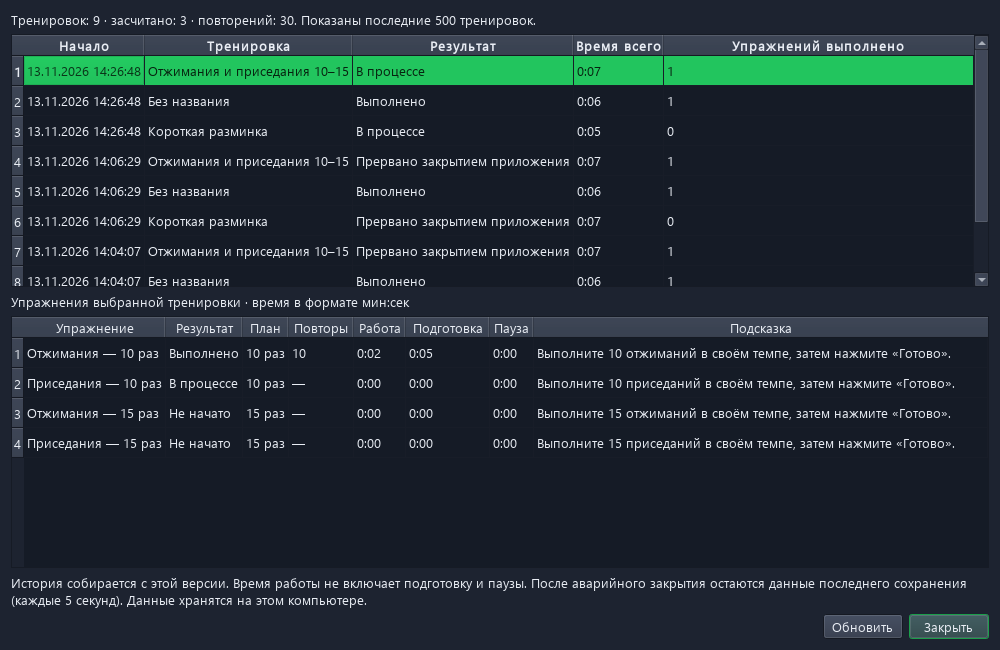
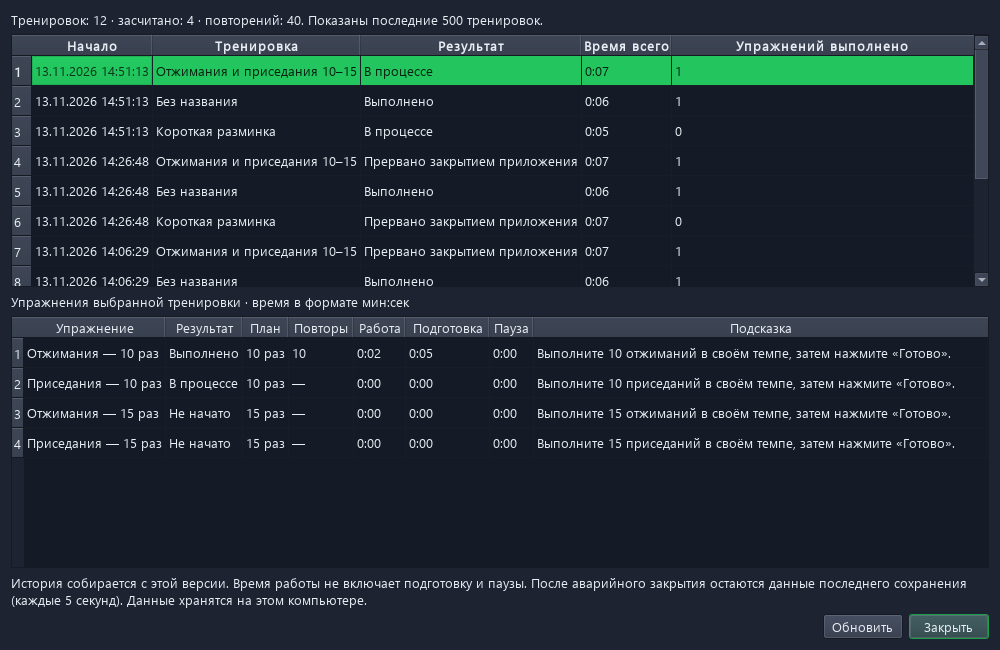
Website for Razminka 1.2.10

diff --git a/docs/index.html b/docs/index.html
@@ -4,7 +4,7 @@
 <meta charset="utf-8"><meta name="viewport" content="width=device-width,initial-scale=1">
 <meta name="description" content="Разминка напоминает отойти от компьютера. Выбирайте упражнения, создавайте свои тренировки и смотрите результаты. Бесплатно для Windows.">
 <meta name="theme-color" content="#171d27"><title>Разминка — сделайте небольшой перерыв</title>
-<link rel="icon" href="assets/icon.png"><link rel="stylesheet" href="style.css?v=1.2.9"><script src="app.js" defer></script>
+<link rel="icon" href="assets/icon.png"><link rel="stylesheet" href="style.css?v=1.2.10"><script src="app.js" defer></script>
 </head>
 <body>
 <a class="skip" href="#main">Перейти к содержимому</a>
@@ -18,7 +18,8 @@
 <section id="workouts" class="workouts"><div class="wrap split"><div class="section-copy"><h2>Ваши упражнения.<br>Ваш темп.</h2><p>Выберите короткую разминку или отжимания с приседаниями: по 10 раз, затем по 15. Программа запомнит выбранную тренировку.</p><p>Упражнения на время идут по таймеру. В подходах на повторения вы сами нажимаете «Готово». Сделали меньше или больше — поправьте количество перед завершением.</p><div class="sequence" aria-label="Порядок упражнений"><span>10 отжиманий</span><span>10 приседаний</span><span>15 отжиманий</span><span>15 приседаний</span></div></div><figure><button class="screenshot" aria-label="Увеличить экран упражнения на повторения"><img src="assets/repetitions.png" width="580" height="600" loading="lazy" alt="Отжимания: план 10 повторений, поле выполненного количества и кнопка Готово"></button><figcaption>Можно сделать паузу или пропустить упражнение.</figcaption></figure></div></section>
 <section class="editor wrap"><div class="section-heading"><h2>Соберите свою тренировку.</h2><p>Откройте настройки и нажмите «Новая тренировка». Добавьте упражнения, укажите время или повторения, расставьте их в удобном порядке. Название тренировки, подсказки и отдых между упражнениями тоже можно изменить.</p></div><figure class="wide-shot"><button class="screenshot" aria-label="Увеличить редактор тренировок"><img src="assets/editor.png" width="820" height="500" loading="lazy" alt="Редактор: названия упражнений, подсказки, выбор времени или повторений, кнопки добавления и перестановки"></button><figcaption>Всё редактируется в приложении. Разбираться в файлах не нужно.</figcaption></figure></section>
 <section id="history" class="history"><div class="wrap"><div class="section-heading"><h2>Посмотрите,<br>что получилось.</h2><p>В истории остаются тренировки и упражнения: что выполнили, что пропустили, сколько повторений подтвердили и сколько времени занимались. Подготовка и паузы учитываются отдельно.</p></div><figure class="wide-shot"><button class="screenshot" aria-label="Увеличить историю тренировок"><img src="assets/history.png" width="1000" height="650" loading="lazy" alt="История с датами тренировок и подробностями каждого упражнения"></button><figcaption>Пример истории. Ваши записи хранятся только на вашем компьютере.</figcaption></figure><p class="history-note">История собирается с версии 1.2.8. Программа не измеряет движения: количество повторений вы подтверждаете сами.</p></div></section>
-<section class="settings wrap"><figure><button class="screenshot" aria-label="Увеличить настройки"><img src="assets/settings.png" width="600" height="650" loading="lazy" alt="Настройки: выбор и редактор тренировок, история, расписание и обновления"></button></figure><div class="section-copy"><h2>Настройте один раз.</h2><ul class="plain-list"><li><strong>Светлая или тёмная тема.</strong> Выберите оформление по вкусу или оставьте «Как в Windows». На скриншотах — тёмная тема приложения.</li><li><strong>Удобное расписание.</strong> Выберите интервал и часы напоминаний.</li><li><strong>Без лишнего звука.</strong> Отключите сигналы, если они мешают.</li><li><strong>Автозапуск по желанию.</strong> Разминка может запускаться вместе с Windows.</li><li><strong>Обновления внутри приложения.</strong> Новая версия загрузится автоматически, а установить её можно в удобный момент.</li></ul></div></section>
+<section class="settings wrap"><figure><button class="screenshot" aria-label="Увеличить настройки"><img src="assets/settings.png" width="600" height="650" loading="lazy" alt="Настройки: выбор и редактор тренировок, история, расписание и обновления"></button></figure><div class="section-copy"><h2>Настройте один раз.</h2><ul class="plain-list"><li><strong>Светлая или тёмная тема.</strong> Выберите оформление по вкусу или оставьте «Как в Windows». На скриншотах — тёмная тема приложения.</li><li><strong>Удобное расписание.</strong> Выберите интервал и часы напоминаний.</li><li><strong>Звуки на ваш вкус.</strong> Выберите из 29 сигналов, настройте громкость и прослушайте их прямо в приложении. Любое событие можно сделать беззвучным.</li><li><strong>Автозапуск по желанию.</strong> Разминка может запускаться вместе с Windows.</li><li><strong>Обновления внутри приложения.</strong> Новая версия загрузится автоматически, а установить её можно в удобный момент.</li></ul></div></section>
+<section class="editor wrap"><div class="section-heading"><h2>Как будет звучать<br>ваш перерыв?</h2><p>Колокольчик, пузырьки, мультяшный свист или аркадная монетка — выбирайте настроение. Для напоминания, начала упражнения и завершения можно назначить разные звуки. У отсчёта свои короткие сигналы.</p></div><figure class="wide-shot"><button class="screenshot" aria-label="Увеличить настройки звуков"><img src="assets/sounds.png" width="620" height="450" loading="lazy" alt="Выбор звуков для четырёх событий, громкость приложения и кнопки прослушивания"></button><figcaption>Громкость регулируется внутри Разминки. Настройки звука Windows при этом не меняются.</figcaption></figure></section>
 <section id="download" class="download"><div class="wrap"><h2>Попробуйте в следующий<br>рабочий день.</h2><p>Windows 10 или 11, 64 бита. Дополнительно устанавливать библиотеки не нужно.</p><div class="downloads"><article><h3>Обычная установка</h3><p>Запустите установщик. Разминка появится в меню «Пуск». Права администратора не нужны.</p><a id="setup-link" class="button primary" href="https://github.com/neonvalve/razminka/releases/latest">Скачать установщик</a></article><article><h3>Без установки</h3><p>Распакуйте всю папку из архива и откройте Razminka.exe. Настройки и история останутся рядом с программой.</p><a id="portable-link" class="button" href="https://github.com/neonvalve/razminka/releases/latest">Скачать ZIP</a></article></div><p class="release-info"><span id="version">Последняя версия доступна на GitHub.</span> <a href="https://github.com/neonvalve/razminka/releases">Что изменилось в выпусках</a></p></div></section>
 <section class="faq wrap"><h2>Если остались вопросы</h2><details><summary>Где искать программу после запуска?</summary><p>Рядом с часами Windows. Если значка не видно, откройте скрытые значки стрелкой. Нажмите на значок Разминки — появится меню с запуском тренировки, настройками и историей.</p></details><details><summary>Как выбрать тренировку для всех следующих напоминаний?</summary><p>В меню трея откройте «Тренировка» и выберите нужную — изменение применяется сразу. Или выберите её в настройках и нажмите «Сохранить». Уже начатая тренировка останется прежней.</p></details><details><summary>Что будет с моими тренировками после обновления?</summary><p>Обновление сохраняет ваши упражнения, настройки и историю. Новая версия устанавливается после подтверждения и перезапускает приложение. Проверить обновления вручную можно в трее или в окне «О программе».</p></details><details><summary>Нужен ли интернет?</summary><p>Для тренировок и просмотра истории — нет. Интернет нужен для проверки и загрузки обновлений. Данные тренировок никуда не отправляются.</p></details><details><summary>Можно пользоваться бесплатно?</summary><p>Да, все функции доступны бесплатно. Подписки и регистрации нет. Поддержать автора можно по желанию.</p></details></section>
 <section class="coffee wrap"><div><h2>Разминка пригодилась?</h2><p>Меня зовут Антон Тепляков. Если хотите сказать спасибо и поддержать дальнейшую разработку — можно угостить меня кофе.</p><a href="https://t.me/ElementJS">Написать автору в Telegram</a></div><a class="button" href="https://pay.cloudtips.ru/p/019480d0" target="_blank" rel="noopener noreferrer">Угостить кофе</a></section>

diff --git a/README.md b/README.md
@@ -19,6 +19,10 @@
 
 Нужна Windows 10 или 11, 64 бита. Выберите Setup-x64.exe для обычной установки либо Portable-x64.zip для запуска без установки. Переносимую версию нужно полностью распаковать и открыть Razminka.exe. Необходимые библиотеки уже включены.
 
+## Звуковые сигналы
+
+В настройках доступны 29 звуков: спокойные, музыкальные, игровые и весёлые. Для каждого события можно выбрать сигнал или тишину. Громкость приложения регулируется отдельно, рядом есть кнопки прослушивания. Для отсчёта доступны только короткие сигналы. Общая громкость и отключение звука Windows по-прежнему влияют на слышимость.
+
 ## Обновления
 
 Начиная с версии 1.2 программа проверяет новые выпуски после запуска и каждые шесть часов. Она скачивает пакет, проверяет SHA-256 и предлагает установить его с перезапуском. В меню трея есть ручная проверка, а автоматическую можно отключить в настройках. С версий 1.0 и 1.1 нужно один раз обновиться вручную.
